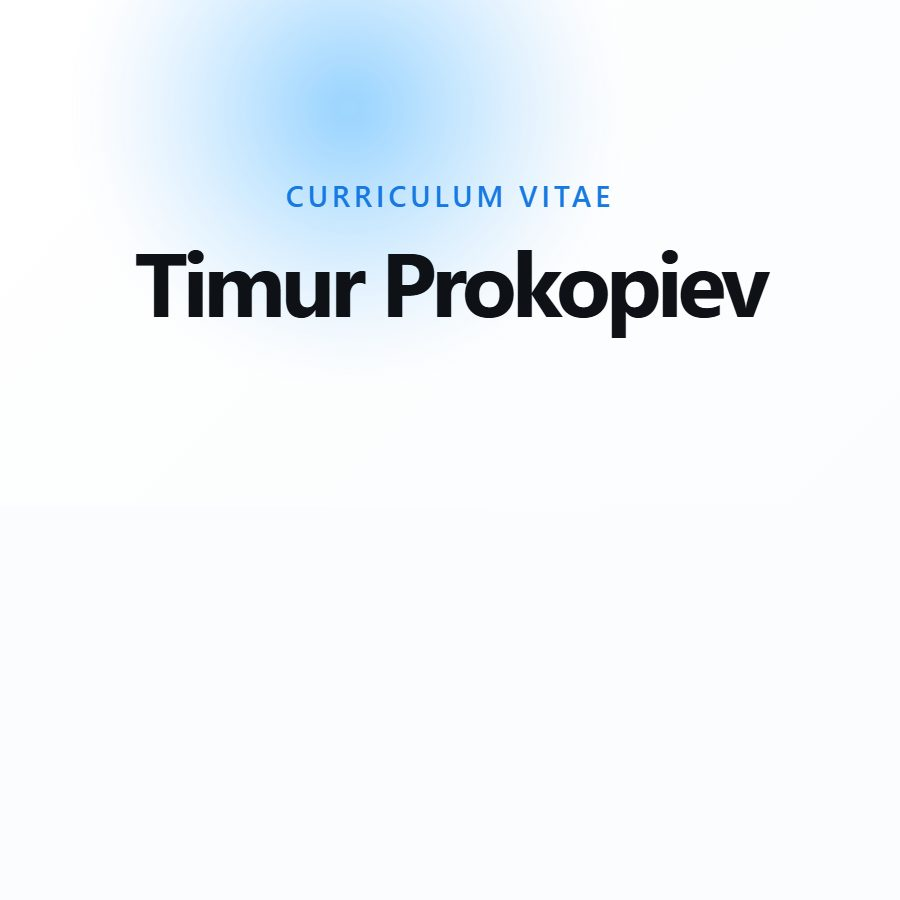
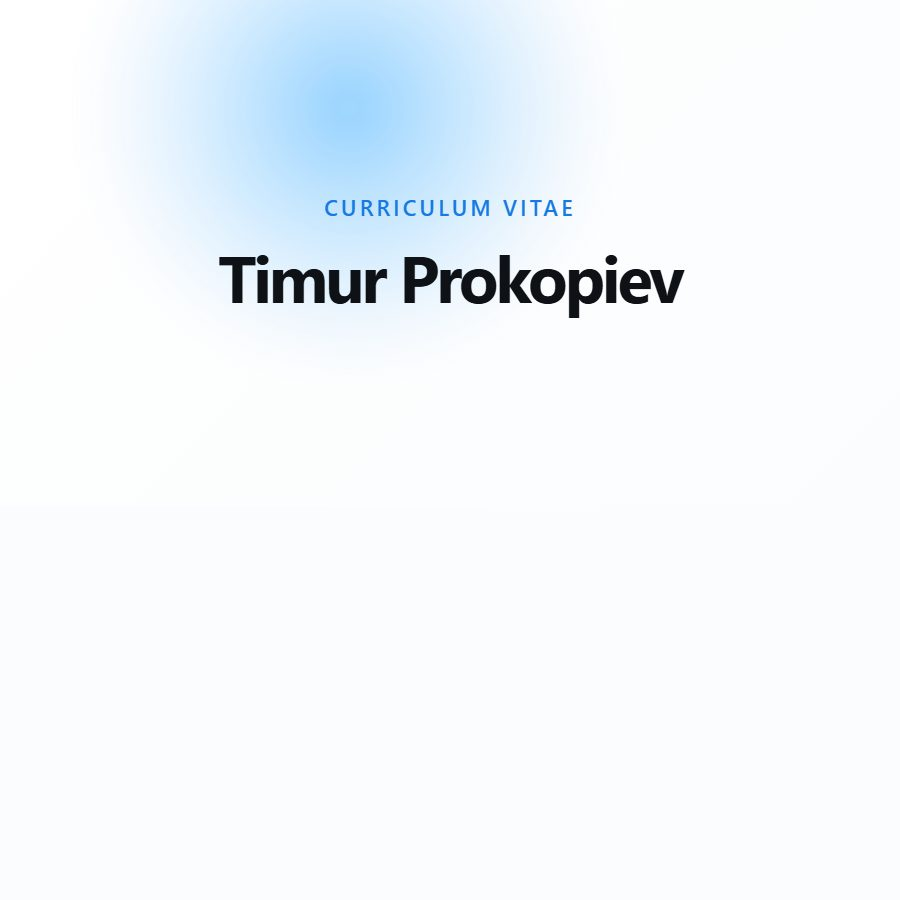
fixes in cv

Changed region(s): [[0.1556, 0.28, 0.8711, 0.3733], [0.3111, 0.1867, 0.6844, 0.2489]]

diff --git a/src/cv/index.html b/src/cv/index.html
@@ -787,8 +787,8 @@
       .chips { gap: 3px; }
 
       section[aria-labelledby="certificates-title"] {
-        break-before: page;
-        page-break-before: always;
+        break-before: auto;
+        page-break-before: auto;
       }
       #experience-title { break-before: avoid; }
     }
@@ -852,7 +852,7 @@
     html.preview-cover .eyebrow {
       display: inline-flex;
       margin: 0;
-      font-size: clamp(28px, 3.2vw, 48px);
+      font-size: clamp(25px, 2.8vw, 36px);
       letter-spacing: 0.14em;
       opacity: 1;
       animation: none;
@@ -861,11 +861,11 @@
       display: none;
     }
     html.preview-cover .hero h1 {
-      max-width: 900px;
+      max-width: 780px;
       margin: 0 auto;
-      font-size: clamp(84px, 10vw, 160px);
-      line-height: 0.96;
-      letter-spacing: -0.055em;
+      font-size: clamp(64px, 7.2vw, 104px);
+      line-height: 0.98;
+      letter-spacing: -0.045em;
       padding-bottom: 0.12em;
       opacity: 1;
       animation: none;
@@ -986,19 +986,31 @@
                 <h3>Technical Artist</h3>
                 <div class="date">Oct 2020 – Sep 2022</div>
                 <p class="company"><strong>SoftServe</strong> • Full-time</p>
-                <p>Led user experience strategy for large-scale design systems and managed design teams.</p>
+                <p>Created real-time 3D content and technical art workflows for enterprise XR and interactive experiences.</p>
               </article>
               <article class="role">
                 <h3>Lead User Experience Designer</h3>
-                <div class="date">Nov 2016 – Oct 2020</div>
+                <div class="date">Nov 2018 – Oct 2020</div>
                 <p class="company"><strong>SoftServe</strong> • Full-time</p>
                 <p>Led user experience strategy for large-scale design systems and managed design teams.</p>
               </article>
               <article class="role">
                 <h3>Lead User Experience Designer</h3>
-                <div class="date">Sep 2012 – Nov 2016</div>
-                <p class="company"><strong>EPAM</strong> • Full-time</p>
-                <p>Managed a design studio and provided design strategy consulting to cross-functional teams.</p>
+                <div class="date">Nov 2016 – Nov 2018</div>
+                <p class="company"><strong>Corel Corporation</strong> • Contract</p>
+                <p>Led UX design for desktop creative software, aligning complex product workflows with platform-specific user needs.</p>
+              </article>
+              <article class="role">
+                <h3>Lead User Experience Designer</h3>
+                <div class="date">Aug 2014 – Nov 2016</div>
+                <p class="company"><strong>EPAM Systems</strong> • Full-time</p>
+                <p>Led the EPAM design studio, managing designers, design delivery, and UX direction across multiple client product teams.</p>
+              </article>
+              <article class="role">
+                <h3>User Experience Designer</h3>
+                <div class="date">Sep 2012 – Aug 2014</div>
+                <p class="company"><strong>EPAM Systems</strong> • Full-time</p>
+                <p>Designed user experiences, wireframes, and interaction flows for enterprise and product teams.</p>
               </article>
               <article class="role">
                 <h3>User Experience Designer</h3>

diff --git a/src/deck/engine/animations.js b/src/deck/engine/animations.js
@@ -8,6 +8,45 @@ export function initAnimations() {
     el.style.setProperty('--anim-delay', delayMs + 'ms');
   }
 
+  function setupPreviewLoadingStates() {
+    document.querySelectorAll('.media-ph, .pdf-preview-block').forEach(function(host) {
+      if (host.dataset.previewLoadingBound === '1') return;
+      var media = Array.from(host.querySelectorAll('img, video'));
+      if (!media.length) return;
+      host.dataset.previewLoadingBound = '1';
+
+      var pending = new Set(media.filter(function(el) {
+        if (el.tagName === 'IMG') return !(el.complete && el.naturalWidth > 0);
+        if (el.tagName === 'VIDEO') return el.readyState < 2;
+        return false;
+      }));
+
+      function finish(el) {
+        pending.delete(el);
+        if (!pending.size) host.classList.remove('is-loading');
+      }
+
+      if (pending.size) {
+        host.classList.add('is-loading');
+        pending.forEach(function(el) {
+          if (el.tagName === 'IMG') {
+            el.addEventListener('load', function() { finish(el); }, { once: true });
+            el.addEventListener('error', function() { finish(el); }, { once: true });
+          } else if (el.tagName === 'VIDEO') {
+            el.addEventListener('loadeddata', function() { finish(el); }, { once: true });
+            el.addEventListener('canplay', function() { finish(el); }, { once: true });
+            el.addEventListener('error', function() { finish(el); }, { once: true });
+            try { if (el.networkState === HTMLMediaElement.NETWORK_EMPTY) el.load(); } catch (_) {}
+          }
+        });
+        window.setTimeout(function() { host.classList.remove('is-loading'); pending.clear(); }, 12000);
+        return;
+      }
+
+      host.classList.remove('is-loading');
+    });
+  }
+
   function setupParallaxMedia() {
     var isCoarsePointer = window.matchMedia && window.matchMedia('(pointer: coarse)').matches;
     document.querySelectorAll('.parallax-media').forEach(function (media) {
@@ -392,6 +431,7 @@ export function initAnimations() {
   }
 
   function setupAll() {
+    setupPreviewLoadingStates();
     setupParallaxMedia();
     setupMobileScrollRegions();
 

diff --git a/src/styles/deck-common.css b/src/styles/deck-common.css
@@ -12,6 +12,73 @@
   to { opacity: 1; transform: translateY(0); }
 }
 
+@keyframes deckPreviewRainbowLoad {
+  from { background-position: 0% 50%; }
+  to { background-position: 260% 50%; }
+}
+
+@keyframes deckPreviewShineLoad {
+  from { background-position: 0 0, 180% 0; }
+  to { background-position: 0 0, -80% 0; }
+}
+
+/* Universal preview/media loading state. Mirrors the portfolio card preview
+   loader and applies to images, videos, compare widgets, and PDF preview blocks. */
+.media-ph.is-loading,
+.pdf-preview-block.is-loading {
+  background: transparent !important;
+  background-image: none !important;
+}
+
+.media-ph.is-loading > *,
+.pdf-preview-block.is-loading > * {
+  opacity: 0 !important;
+}
+
+.media-ph.is-loading::before,
+.pdf-preview-block.is-loading::before {
+  content: "";
+  position: absolute;
+  inset: 0;
+  z-index: 0;
+  opacity: 0.82;
+  pointer-events: none;
+  background:
+    linear-gradient(115deg,
+      oklch(68% 0.24 25) 0%,
+      oklch(78% 0.18 80) 15%,
+      oklch(76% 0.2 145) 30%,
+      oklch(70% 0.22 220) 48%,
+      oklch(70% 0.24 300) 66%,
+      oklch(76% 0.22 350) 82%,
+      oklch(68% 0.24 25) 100%);
+  background-size: 260% 100%;
+  animation: deckPreviewRainbowLoad 1.4s linear infinite;
+}
+
+.media-ph.is-loading::after,
+.pdf-preview-block.is-loading::after {
+  content: "";
+  position: absolute;
+  inset: 0;
+  z-index: 2;
+  pointer-events: none;
+  background:
+    linear-gradient(to top, rgba(255,255,255,0.34), transparent 64%),
+    linear-gradient(90deg, transparent, rgba(255,255,255,0.34), transparent);
+  background-size: 100% 100%, 180% 100%;
+  animation: deckPreviewShineLoad 1.1s ease-in-out infinite;
+}
+
+@media (prefers-reduced-motion: reduce) {
+  .media-ph.is-loading::before,
+  .media-ph.is-loading::after,
+  .pdf-preview-block.is-loading::before,
+  .pdf-preview-block.is-loading::after {
+    animation: none !important;
+  }
+}
+
 /* Reveal the fixed top/bottom cover chrome fades smoothly instead of popping in. */
 body::before,
 body::after {
